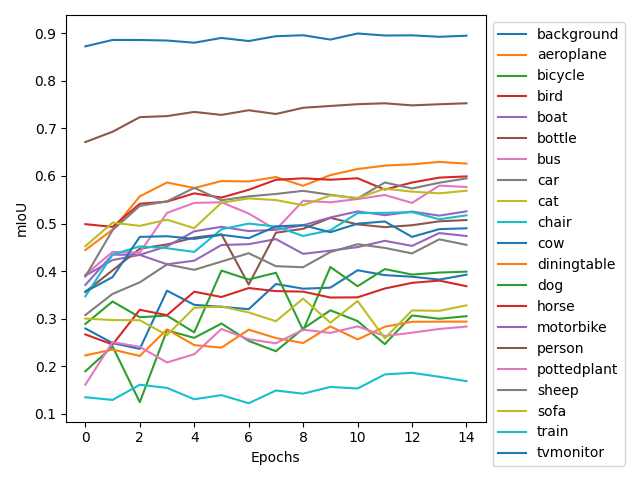
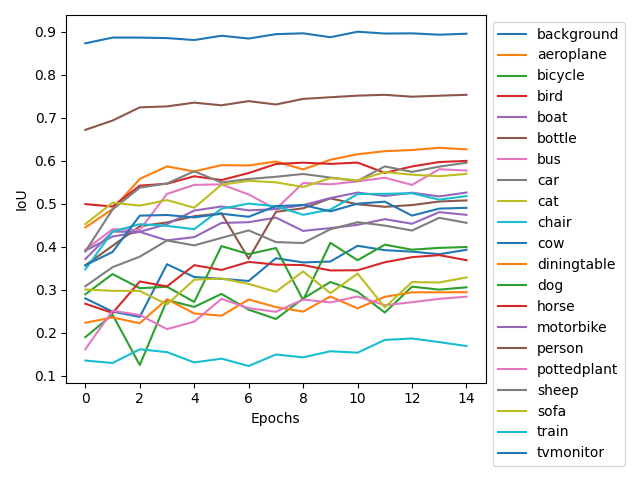
cleanup plots & add  final text

diff --git a/task1_final.py b/task1_final.py
@@ -1,0 +1,39 @@
+import numpy as np
+import matplotlib.pyplot as plt
+
+
+def main():
+    titles = [
+        "linear",
+        "convolutional",
+        "transformer",
+        "transformer-shared-qk"
+    ]
+    paths = [
+        "results/segmentation/linear/2023_05_11_14_23_50",
+        "results/segmentation/convolutional/2023_05_11_15_59_44",
+        "results/segmentation/transformer/2023_05_11_19_52_45",
+        "results/segmentation/transformer/2023_05_11_19_01_04",
+    ]
+    for title, path in zip(titles, paths):
+        with open(f'{path}/imou.npy', 'rb') as f:
+            ious = np.load(f)
+            classes = np.load(f)
+            mean = np.mean(ious, axis=1)
+            print(mean[-1])
+        plt.clf()
+
+        for i in range(len(classes)):
+            plt.plot(ious[:, i], label=classes[i])
+
+        plt.xlabel("Epochs")
+        plt.ylabel("IoU")
+
+        plt.legend(loc="upper left", bbox_to_anchor=(1, 1))  # order important
+        plt.tight_layout()
+
+        plt.savefig(f'{path}/plot.png')
+
+
+if __name__ == "__main__":
+    main()

diff --git a/task1.md b/task1.md
@@ -1,0 +1,26 @@
+Final validation results (mean iou) after 15 epochs:
+
+- linear:           0.42288503569130864
+- convolutional:    0.4819981720540315
+- transformer:      0.6201591706504092
+- transformer-sh-qk:0.5969766314660988
+
+1.3.1)
+A transformer with shared queries and key performs slightly less worse than a normal transformer.
+However it also has much less parameters, so this decrease in performance is justified.
+Also it still performs much better than a linear or convolutional head.
+
+Visually they don't look much different. When the normal transformer tends to color too much the Shared-Queries model tends to color not enough.
+
+If a smaller model is desired the shared queries-keys seem like a valid option.
+
+1.4)
+Linear layer performs the worst, even worse than a convolutional layer when they have a similar amount of parameters.
+This could be because of the fitting choice of a convolutional layer for an image. It gives the mdoel a slight advantage.
+
+The transformer models perform much better but also have allot more parameters.
+They should be chosen if the outcome is important and there are many resources to spend.
+
+Overall they all scored to my surprise quite well which is due to the large prefitted model that they extend.
+
+By analyzing the plots, it can be shown, that the transformers learn less smoothly compared to the linear layer.
